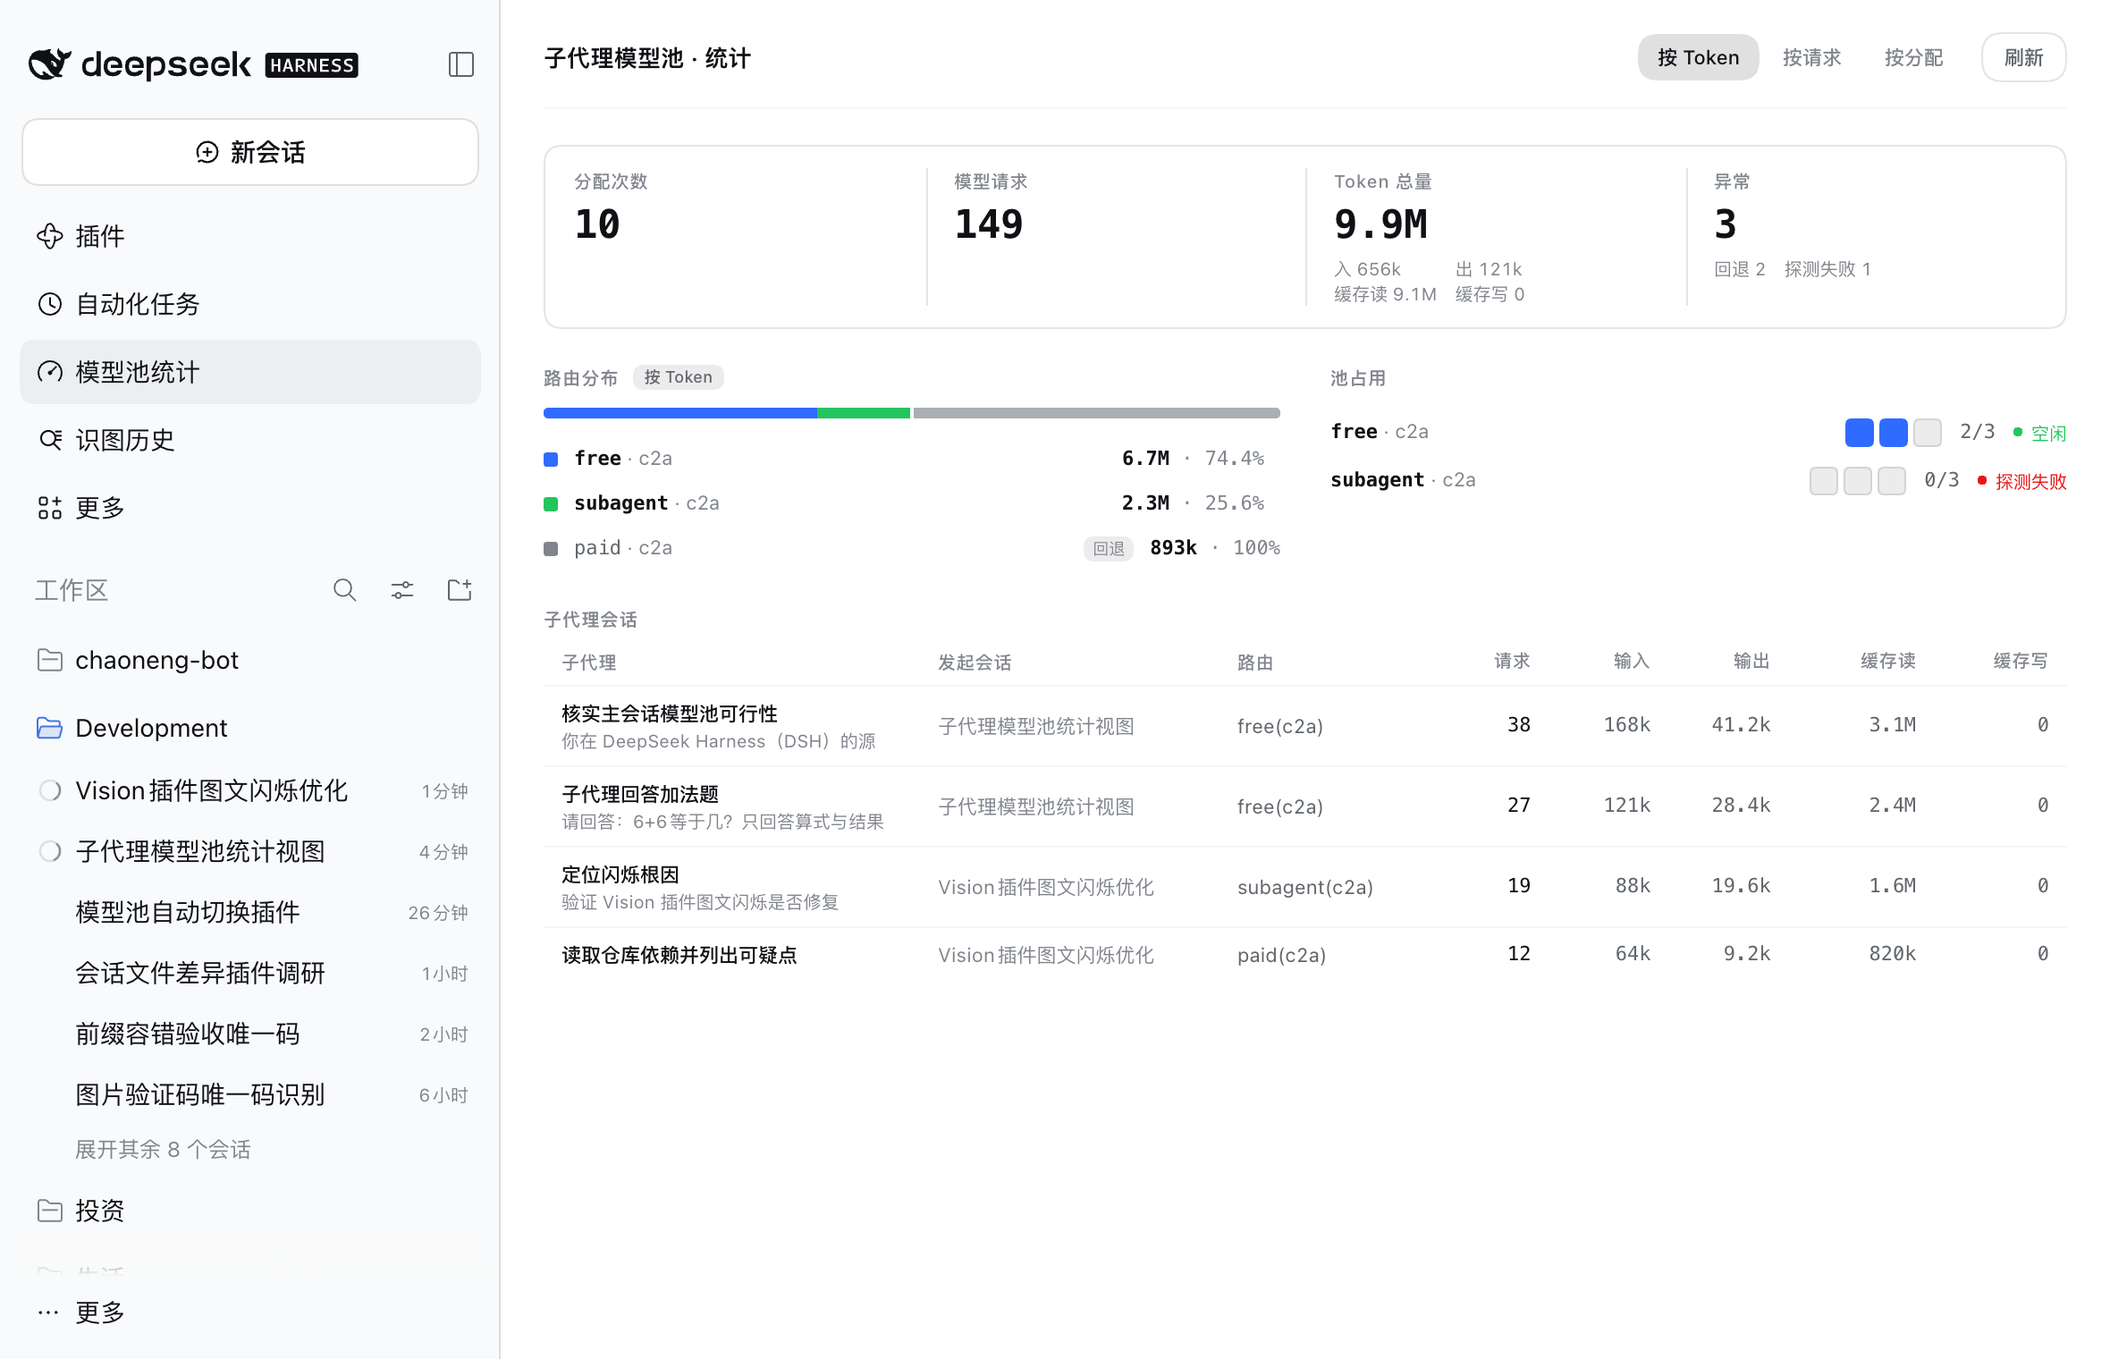
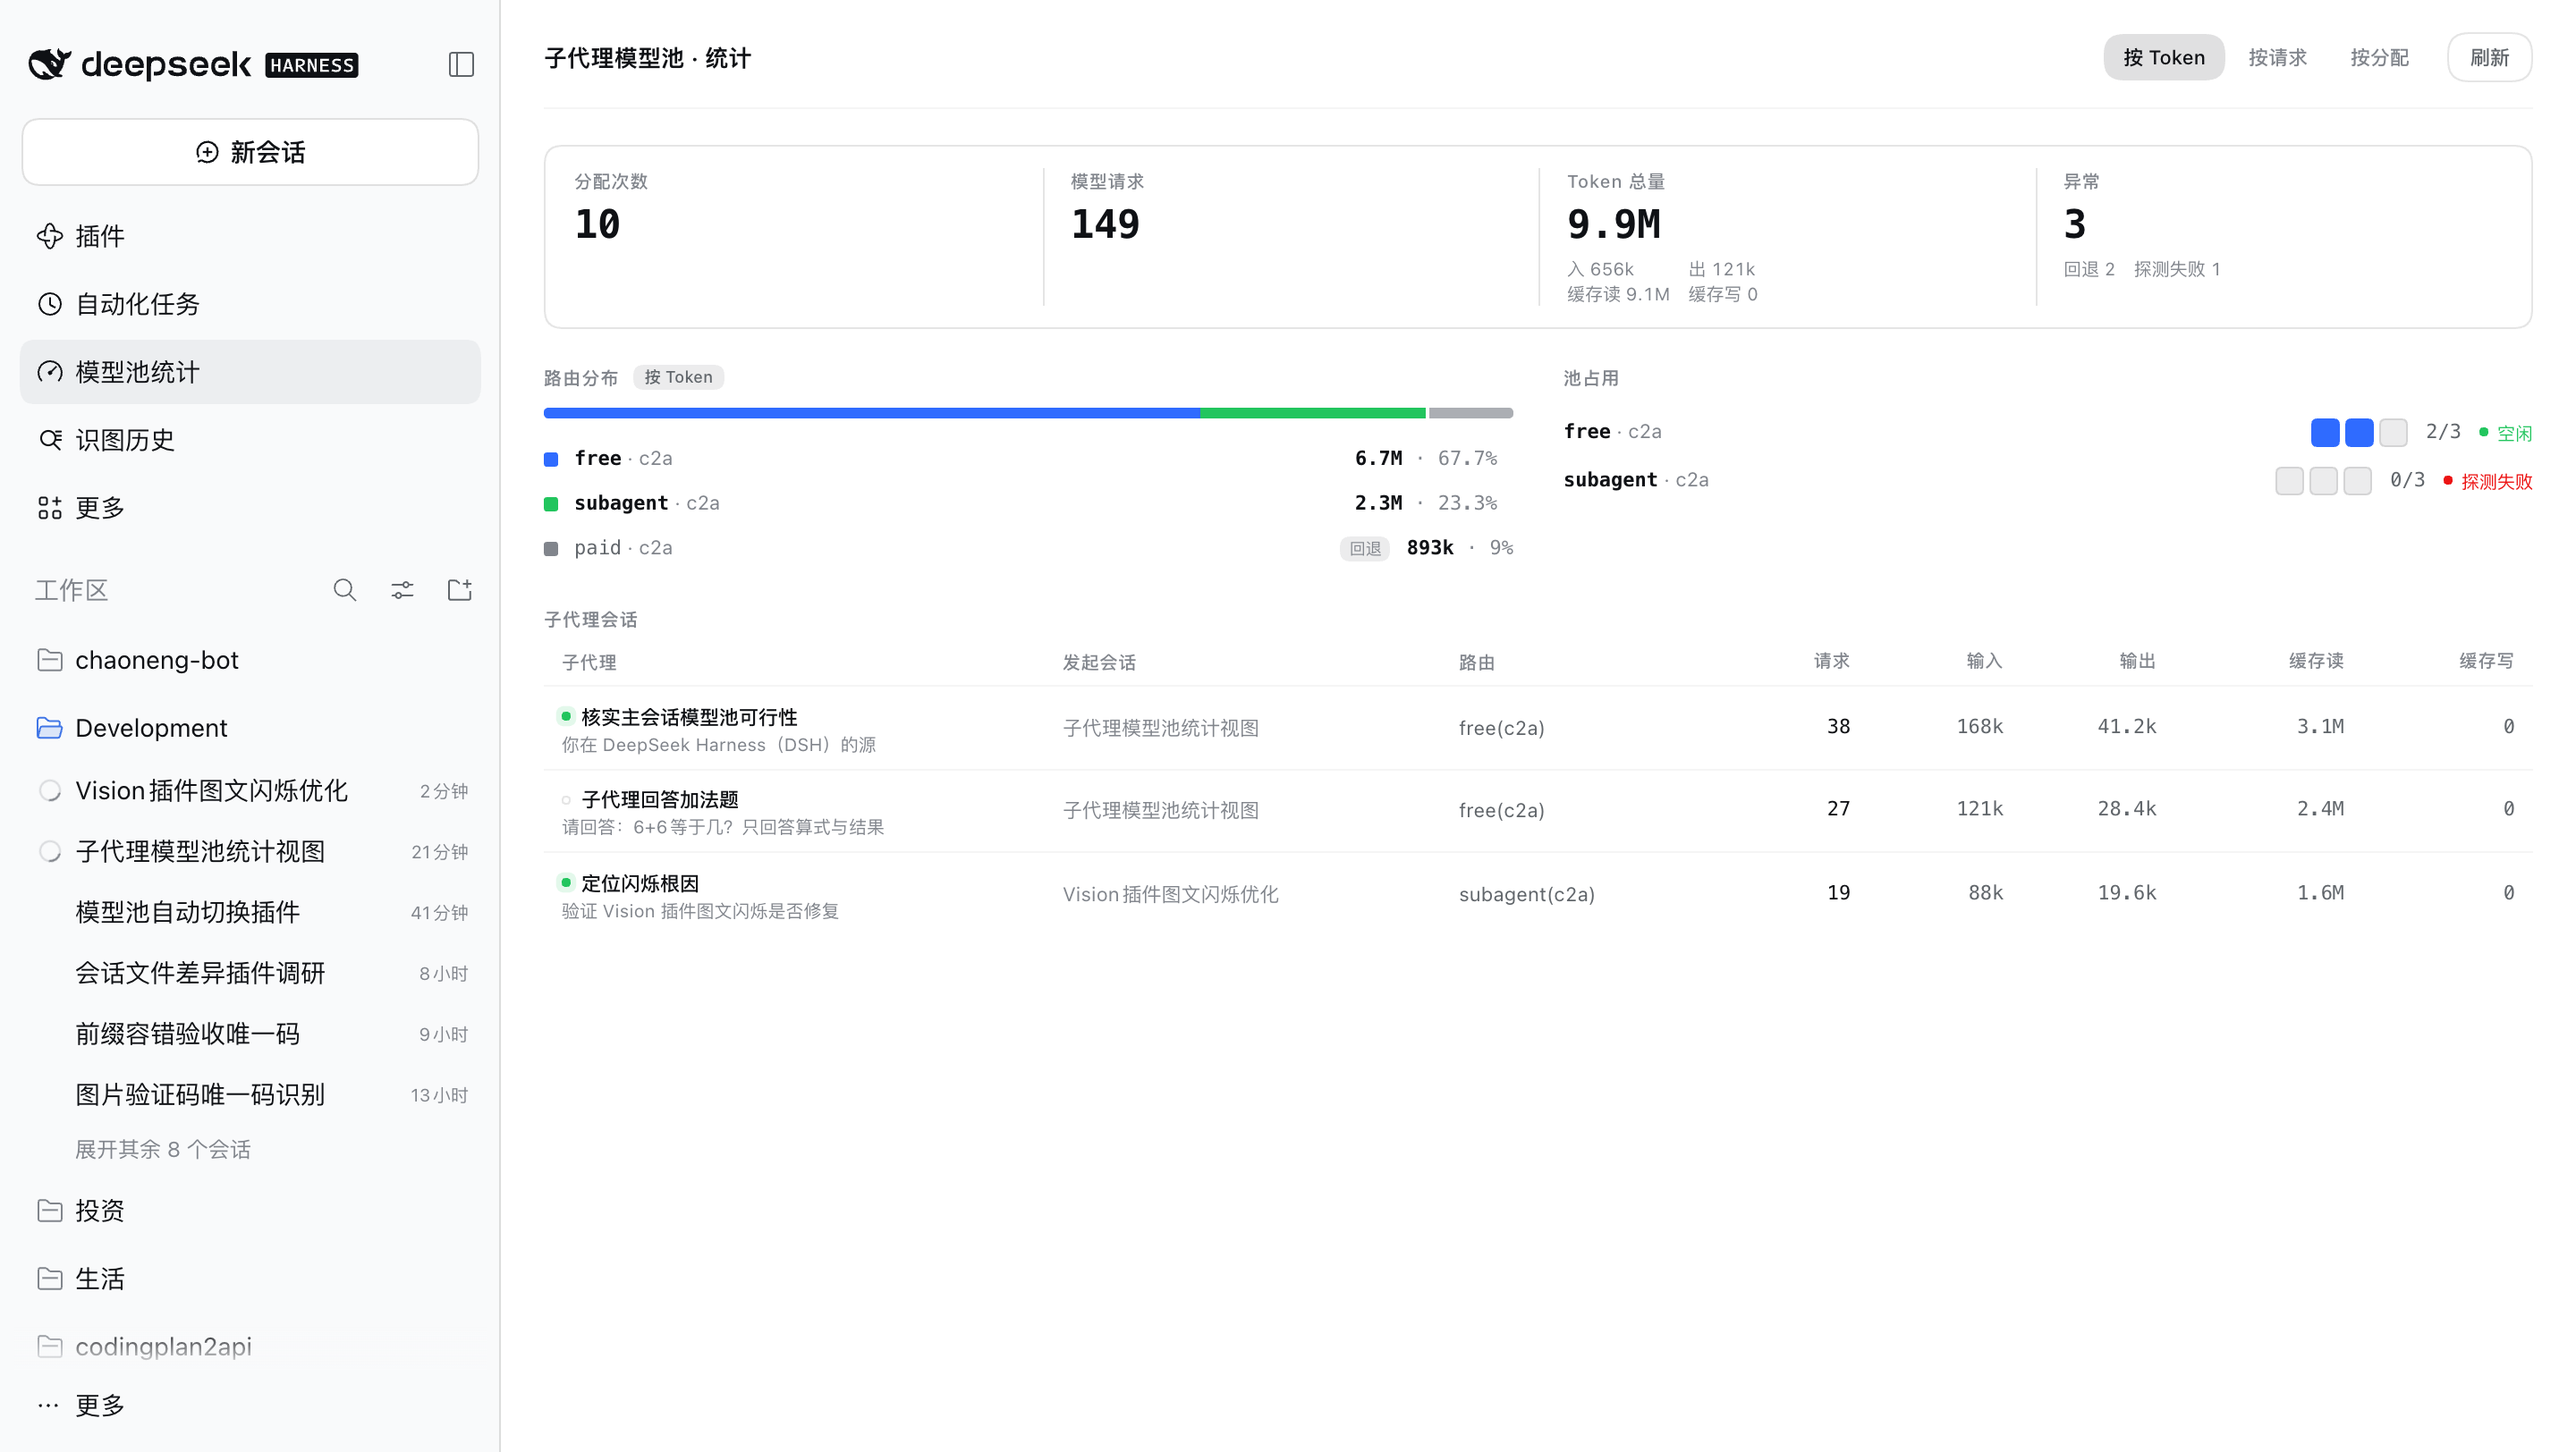
fix: 堆叠条比例按全局分母算，手机指标条第 2 行不再被压扁
两个 P0，都是我自己引入的。

1) 堆叠条比例放大 5.5 倍
   rankRoutes 把「池内路由」和「回退路由」各自按组内归一，两段占比
   相加 = 200%，而 .smpv-barI 没有 flex:none，被 flex 等比压回 100%。
   结果 893k（真实 9.0%）被画成 49.8%——条子和右侧数字说的不是一回事。
   修：分母统一为「池内 + 回退」的合计；barI 加 flex:0 0 auto 防御。
   实测（542px 条）：67.7% / 23.3% / 缝 0.4% / 9.0%，与 6.7M / 2.3M /
   893k 对得上。

2) 手机端指标条第 2 行塌成一条线
   .smpv-cards 是 .smpv-body(flex:1 1 auto; min-height:0) 的 flex 子项，
   手机内容约 1900px 远超视口，收缩把 grid 压到 102px，grid-auto-rows:1fr
   让第 2 行塌成 7px——Token 总量和异常整个看不见。
   修：.smpv-cards{flex:none; grid-auto-rows:auto}。
   实测（375×812）：四格 93/93/94/94px，第 2 行 top=245 正常渲染，
   页面 764 可滚动（scrollH 874）。

测试：把「分组各自算占比」改成「共用一个分母」，并新增一条回归防线
（曾经两段相加 200%）。134 项全绿。

diff --git a/client.js b/client.js
@@ -835,7 +835,7 @@
         ".smpv-stack{margin:0 0 10px}",
         // 轨道加淡描边：浅色主题下 bg-layer 全是白色，纯填充在白卡片上看不见。
         ".smpv-bar{height:6px;border-radius:999px;background:var(--smpv-tint-2);display:flex;overflow:hidden}",
-        ".smpv-barI{display:block;height:100%;transition:width .3s cubic-bezier(.2,.8,.3,1)}",
+        ".smpv-barI{display:block;height:100%;flex:0 0 auto;transition:width .3s cubic-bezier(.2,.8,.3,1)}",
         ".smpv-barGap{display:block;width:2px;height:100%;flex:none;background:var(--dsw-alias-bg-base,#fff)}",
         ".smpv-barI.fb{opacity:.6}",
         ".smpv-route{display:grid;grid-template-columns:8px minmax(0,1fr) auto auto;gap:9px;align-items:center;padding:4px 0}",
@@ -905,7 +905,7 @@
         ".smpv-switch{flex:1;display:flex}",
         ".smpv-switchBtn{flex:1;text-align:center}",
         // 指标条改两列：四格横排在手机上每格只有 60px，数字会截断。
-        ".smpv-cards{grid-template-columns:repeat(2,minmax(0,1fr));grid-auto-rows:1fr;margin:16px 0}",
+        ".smpv-cards{grid-template-columns:repeat(2,minmax(0,1fr));grid-auto-rows:auto;flex:none;margin:16px 0}",
         ".smpv-card{padding:10px 12px}",
         ".smpv-card:nth-child(odd):before{content:none}",
         ".smpv-card:nth-child(n+3){border-top:.5px solid var(--dsw-alias-border-l1)}",
@@ -976,19 +976,24 @@
         var fallback = measured.filter(function (route) {
           return route.inPool !== true && measureOf(route, mode) > 0;
         }).sort(sortFn);
+        // 分母必须只有一个：池内 + 回退的合计。
+        // 分组各算 100% 会让两段宽度加起来 200%，压缩后回退段（真实 9%）
+        // 被画成近一半——条子和数字说的不是一回事。
         var poolTotal = inPool.reduce(function (sum, route) { return sum + route.measure; }, 0);
         var fallbackTotal = fallback.reduce(function (sum, route) { return sum + route.measure; }, 0);
+        var grandTotal = poolTotal + fallbackTotal;
         var toneOf = function (index) { return "t" + (index % 4); };
+        var ratioOf = function (route) { return grandTotal === 0 ? 0 : route.measure / grandTotal; };
         var poolRanked = inPool.map(function (route, index) {
           return Object.assign({}, route, {
             tone: toneOf(index),
-            ratio: poolTotal === 0 ? 0 : route.measure / poolTotal
+            ratio: ratioOf(route)
           });
         });
-        var fallbackRanked = fallback.map(function (route, index) {
+        var fallbackRanked = fallback.map(function (route) {
           return Object.assign({}, route, {
             tone: "fb",
-            ratio: fallbackTotal === 0 ? 0 : route.measure / fallbackTotal,
+            ratio: ratioOf(route),
             isFallback: true
           });
         });

diff --git a/tests/stats-client.test.js b/tests/stats-client.test.js
@@ -169,7 +169,7 @@ test("空列表返回空数组", () => {
 
 // ---- 回退路由 ----
 
-test("回退路由与池内路由分组，各自算占比", () => {
+test("回退路由与池内路由共用一个分母", () => {
   const { rankRoutes } = loadTestExports();
   const ranked = rankRoutes(
     [
@@ -182,12 +182,33 @@ test("回退路由与池内路由分组，各自算占比", () => {
   const fallback = ranked.filter((r) => r.isFallback === true);
   assert.equal(pool.length, 1);
   assert.equal(pool[0].model, "free");
-  assert.equal(pool[0].ratio, 1);
   assert.equal(fallback.length, 1);
   assert.equal(fallback[0].model, "paid");
   assert.equal(fallback[0].tone, "fb");
-  // 回退组自己算占比（组内只有一条 → 100%），不混进池内分母。
-  assert.equal(fallback[0].ratio, 1);
+  // 全局分母 = 30 + 70 = 100，两段加起来正好 100%。
+  assert.equal(pool[0].ratio, 0.3);
+  assert.equal(fallback[0].ratio, 0.7);
+  assert.equal(
+    ranked.reduce((sum, r) => sum + r.ratio, 0),
+    1,
+  );
+});
+
+test("分组各算 100% 会让条子宽到 200%", () => {
+  // 回归防线：曾经池内和回退各自按组内归一，两段相加 = 200%，
+  // 被 flex 压回 100% 后回退段（真实 9%）画成近一半。
+  const { rankRoutes } = loadTestExports();
+  const ranked = rankRoutes(
+    [
+      route("c2a", "free", { totalTokens: 900 }),
+      route("c2a", "paid", { totalTokens: 100, inPool: false }),
+    ],
+    "tokens",
+  );
+  const sum = ranked.reduce((acc, r) => acc + r.ratio, 0);
+  assert.ok(Math.abs(sum - 1) < 1e-9, `两段占比之和应为 1，实际 ${sum}`);
+  const fallback = ranked.find((r) => r.isFallback === true);
+  assert.ok(Math.abs(fallback.ratio - 0.1) < 1e-9, "回退段应占 10%");
 });
 
 test("池外但没有用量的路由不显示为回退", () => {
